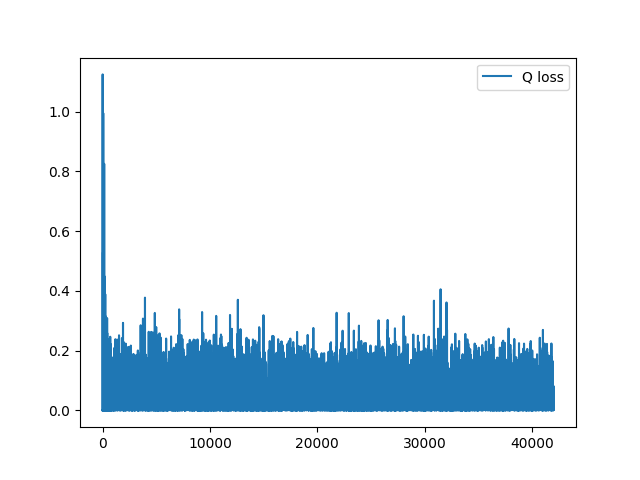
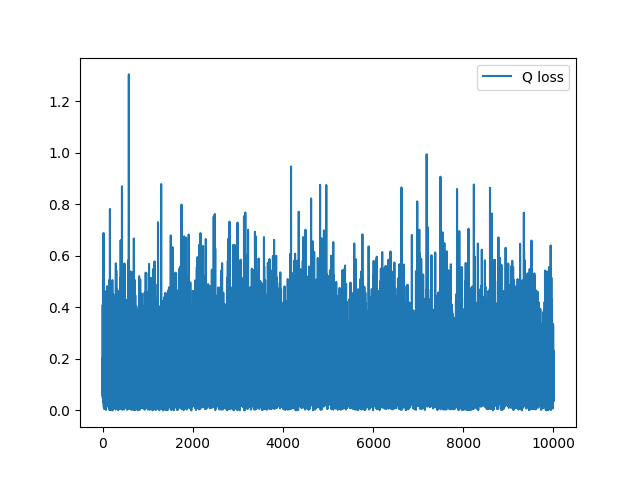
work on actor critic

diff --git a/actorcritic/online/a2c.py b/actorcritic/online/a2c.py
@@ -8,7 +8,7 @@ import numpy as np
 def A2C(buffer,Qvalue,optimizerQ,p,optimizerpi,env,N, batch_size, n_epochs, loadpath,loadopt, freqsave=100, epsilon = 0.1, K = 1, start = 0):
     initial_states = torch.randint(0,env.Nx*env.Ny,(N,))
     #test fonction de politique
-    actions = p(env.representation(initial_states))
+    actions = p(initial_states)
     #test fonction de transition
     new_state,reward = env.transitionvec(actions,initial_states)
     buffer.store(initial_states,actions,new_state,reward)
@@ -21,30 +21,27 @@ def A2C(buffer,Qvalue,optimizerQ,p,optimizerpi,env,N, batch_size, n_epochs, load
         if torch.bernoulli(torch.Tensor([epsilon])):
             a = torch.randint(0,env.Na,(1,)) 
         else:
-            a = p(env.representation(s))
+            a = p(s)
         sp,r = env.transition(a,s)
         buffer.store(s,torch.Tensor([a]),sp,r)
         #step 2
         s,a,sp,r = buffer.sample(batch_size)
         for i in range(K):
-            ap = p(env.representation(sp))
+            ap = p(sp)
             #step 3 Q update
-            targets = r + env.gamma*Qvalue(env.representation(sp),env.representationaction(ap)).squeeze()#targets computation
-            #print("targets", targets)
+            targets = r + env.gamma*Qvalue(sp,ap).squeeze()
+            #targets computation
             optimizerQ.zero_grad()
-            loss = F.mse_loss(Qvalue(env.representation(s),env.representationaction(a)).squeeze(),targets)
+            loss = F.mse_loss(Qvalue(s,a).squeeze(),targets)
             loss.backward()
             optimizerQ.step()
             #step 4 and 5
             #computing negativpseudoloss for policy pi
-
             optimizerpi.zero_grad()
-            api, logits_ap = p(env.representation(s), logit = True)
-            
+            api, logits_ap = p(s, logit = True)
             logpi = F.cross_entropy(logits_ap,env.representationaction(api),weight = None, reduction = 'none' )
-            Vs = torch.stack([torch.sum(torch.mul(Qvalue(env.representation([si]*env.Na),env.representationaction(torch.arange(env.Na))).squeeze(),F.softmax(logits_ap,dim=1).squeeze().detach())) for si in s])
-            advantage = Qvalue(env.representation(s),env.representationaction(api)).squeeze()-Vs.detach() 
-            #print("advantage", advantage.shape)
+            Vs = torch.stack([torch.sum(torch.mul(Qvalue([si]*env.Na,torch.arange(env.Na)).squeeze(),F.softmax(logits_ap,dim=1).squeeze().detach())) for si in s])
+            advantage = Qvalue(s,api).squeeze()-Vs.detach() 
             NegativPseudoLoss = torch.mean(torch.mul(logpi,advantage))
             NegativPseudoLoss.backward()
             optimizerpi.step()
@@ -64,7 +61,7 @@ def A2C(buffer,Qvalue,optimizerQ,p,optimizerpi,env,N, batch_size, n_epochs, load
             torch.save(optimizerQ.state_dict(), os.path.join(loadopt,f"opt_q_load_{j}.pt"))
 
         if j%1000==0 and j>2000:
-            recompense_episodes.append(test(p,env, epsilon))
+            recompense_episodes.append(testfunc(p,env, epsilon))
             print("plot")
             plt.figure()
             plt.semilogy(recompense_episodes, label="nombre d'iterations pour que l'agent reuisse")
@@ -87,7 +84,7 @@ def A2C(buffer,Qvalue,optimizerQ,p,optimizerpi,env,N, batch_size, n_epochs, load
 
 
 
-def test(p, env, epsilon):
+def testfunc(p, env, epsilon, plot = False):
     i = 0
     s = torch.randint(0,env.Na,(1,)).item()
     rewardlist = []
@@ -95,11 +92,14 @@ def test(p, env, epsilon):
         if torch.bernoulli(torch.Tensor([epsilon])):
             a = torch.randint(0,env.Na,(1,)) 
         else:
-            a  = p(env.representation([s]))
+            a  = p([s])
         sp,R = env.transition(a,s)
         s = sp
         i+=1
         rewardlist.append(R)
+        if plot:
+            env.grid(s)
+            print("")
         if s==env.G:
             break
     return i

diff --git a/actorcritic/online/main.py b/actorcritic/online/main.py
@@ -9,36 +9,38 @@ from buffer import Buffer
 sys.path.append("../../env")
 from env import grid
 import os
-from a2c import A2C
+from a2c import A2C, testfunc
 import matplotlib.pyplot as plt
 
         
 if __name__=="__main__":
-    train = True
-    start =0
+    train = False
+    test = True
+    start = 10000
     epsilon = 0.1
     gamma = .9
     nx = 4
     ny = 4
     G = 10
-    na = 4
-    env = grid(nx,ny,G = G, gamma =gamma) 
-    p = policy(nx,ny,na)
-    Qvalue = Q(nx,ny,na)
-    optimizerpi = optim.Adam(p.parameters(), lr = 1e-3) 
-    optimizerQ = optim.Adam(Qvalue.parameters(), lr = 1e-3) 
-    buffer = Buffer()
     N = 3 
     batch_size = 2
-    n_epochs = 100000
+    n_epochs = 10000
     loadpath = "loads"
     loadopt = "opt"
 
+
+    env = grid(nx,ny,G = G, gamma =gamma) 
+    p = policy(env)
+    Qvalue = Q(env)
+    optimizerpi = optim.Adam(p.parameters(), lr = 1e-3) 
+    optimizerQ = optim.Adam(Qvalue.parameters(), lr = 1e-3) 
+    buffer = Buffer()
+
     if start>0:
-        p.load_state_dict(torch.load(os.path.join(loadpath,f"pi_load_{start}.pt")))
-        optimizerpi.load_state_dict(torch.load(os.path.join(loadopt,f"opt_pi_load_{start}.pt")))
-        Qvalue.load_state_dict(torch.load(os.path.join(loadpath,f"q_load_{start}.pt")))
-        optimizerQ.load_state_dict(torch.load(os.path.join(loadopt,f"opt_q_load_{start}.pt")))
+        p.load_state_dict(torch.load(os.path.join(loadpath,f"pi_load_{start}.pt"),weights_only=True))
+        optimizerpi.load_state_dict(torch.load(os.path.join(loadopt,f"opt_pi_load_{start}.pt"),weights_only=True))
+        Qvalue.load_state_dict(torch.load(os.path.join(loadpath,f"q_load_{start}.pt"),weights_only=True))
+        optimizerQ.load_state_dict(torch.load(os.path.join(loadopt,f"opt_q_load_{start}.pt"),weights_only=True))
 
     if train:
         listLosspi = A2C(buffer,Qvalue,optimizerQ,p,optimizerpi,env,N, batch_size, n_epochs, loadpath,loadopt, epsilon, start = 0)
@@ -50,3 +52,5 @@ if __name__=="__main__":
         plt.legend()
         plt.savefig("loss/NegativPseudoLossPi")
         plt.show()
+    if test:
+        testfunc(p, env, epsilon, plot = True)

diff --git a/env/env.py b/env/env.py
@@ -35,8 +35,6 @@ class grid:
         sp = (s_couple[0]+ d[0], s_couple[1]+d[1])
         s_temp = sp[0]*self.Ny+sp[1]  
 
-
-        #if self.Nx>s_couple[0]+ d[0]>=0 and self.Ny>s_couple[1]+d[1]>=0:
         condition = self.Nx>s_couple[0]+ d[0]>=0 and self.Ny>s_couple[1]+d[1]>=0# and not(s_couple[0]+ d[0] in self.obstacles_encod 
         condition = self.Nx>s_couple[0]+ d[0]>=0 and self.Ny>s_couple[1]+d[1]>=0 and not(s_temp in self.obstacles_encod)
         if condition:
@@ -70,13 +68,13 @@ class grid:
         "a un est un iterable de valeurs scalaires"
         "s un est un iterable de valeurs scalaires"
         couples = {0:s//self.Ny,1:s%self.Ny}
-        mouv1,mouv2 = self.representation_action(a)
-        A =(couples[0]+mouv1>=0)*(couples[0]+mouv1<self.Nx)*(couples[1]+mouv2>=0)*(couples[1]+mouv2<self.Ny)
-        couples2 = {0:(couples[0]+mouv1)*A,
-                    1:(couples[1]+mouv2)*A
+        mouv0,mouv1 = self.representation_action(a)
+        A =(couples[0]+mouv0>=0)*(couples[0]+mouv0<self.Nx)*(couples[1]+mouv1>=0)*(couples[1]+mouv1<self.Ny)
+        couples2 = {0:(couples[0]+mouv0*A),
+                    1:(couples[1]+mouv1*A)
                     }
         newstate = couples2[0]*self.Ny+couples2[1]
-        reward = (newstate==self.G) +(A*(-1)+1)*(-10)
+        reward = (newstate==self.G) +(A*(-1)+1)*(-1)
         #a l'interieur 1 dans A et 0 dans A*(-1)+1 --> 0
         #a l'exterieur 0 dans A et 1 dans A*(-1)+1 --> -10
         return newstate,reward

diff --git a/actorcritic/online/Qfunc2.py b/actorcritic/online/Qfunc2.py
@@ -6,12 +6,11 @@ class Q(nn.Module):
         self.Nx = env.Nx
         self.Ny = env.Ny
         self.Na = env.Na
-        self.env = env
         self.linear1 = nn.Linear(self.Ny*self.Nx + self.Na,16)
         self.linear2 = nn.Linear(16,16)
         self.linear3 = nn.Linear(16,1)
         self.actv = nn.ReLU()
-
+        self.env = env
     def forward(self, s,a):
         x = torch.cat((self.env.representation(s),self.env.representationaction(a)),dim=1)
         out = self.linear1(x)
@@ -20,3 +19,15 @@ class Q(nn.Module):
         out = self.actv(out)
         out = self.linear3(out)
         return out
+    def Qmax(self,state_vec):
+        return torch.Tensor([max(self.__call__([s]*self.Na, torch.arange(self.Na)).detach().squeeze()) for s in state_vec])
+
+    def amax_epsilon(self,state_vec, epsilon):
+        out = []
+        for s in state_vec:
+            if torch.bernoulli(torch.Tensor([epsilon])):
+                out.append(torch.randint(0,self.Na,(1,))[0])
+            else:
+                out.append(torch.argmax(self.__call__([s]*self.Na, torch.arange(self.Na)).detach().squeeze()))
+        return out
+

diff --git a/actorcritic/online/policy.py b/actorcritic/online/policy.py
@@ -3,17 +3,18 @@ from torch import distributions
 import torch.nn as nn
 import torch.nn.functional as F
 class policy(nn.Module):
-    def __init__(self, Nx,Ny, Na):
+    def __init__(self, env):
         super(policy,self).__init__()
-        self.Nx = Nx
-        self.Ny = Ny
-        self.Na = Na
+        self.Nx = env.Nx
+        self.Ny = env.Ny
+        self.Na = env.Na
+        self.env = env
         self.linear1 = nn.Linear(self.Ny*self.Nx,64)
         self.linear2 = nn.Linear(64,32)
         self.linear3 = nn.Linear(32,self.Na)
         self.actv = nn.ReLU()
     def forward(self, x, logit =False):
-        out = self.linear1(x)
+        out = self.linear1(self.env.representation(x))
         out = self.actv(out)
         out = self.linear2(out)
         out = self.actv(out)

diff --git a/actorcritic/online/README.md b/actorcritic/online/README.md
@@ -1,0 +1,1 @@
+#Parallel actor critic implementation
